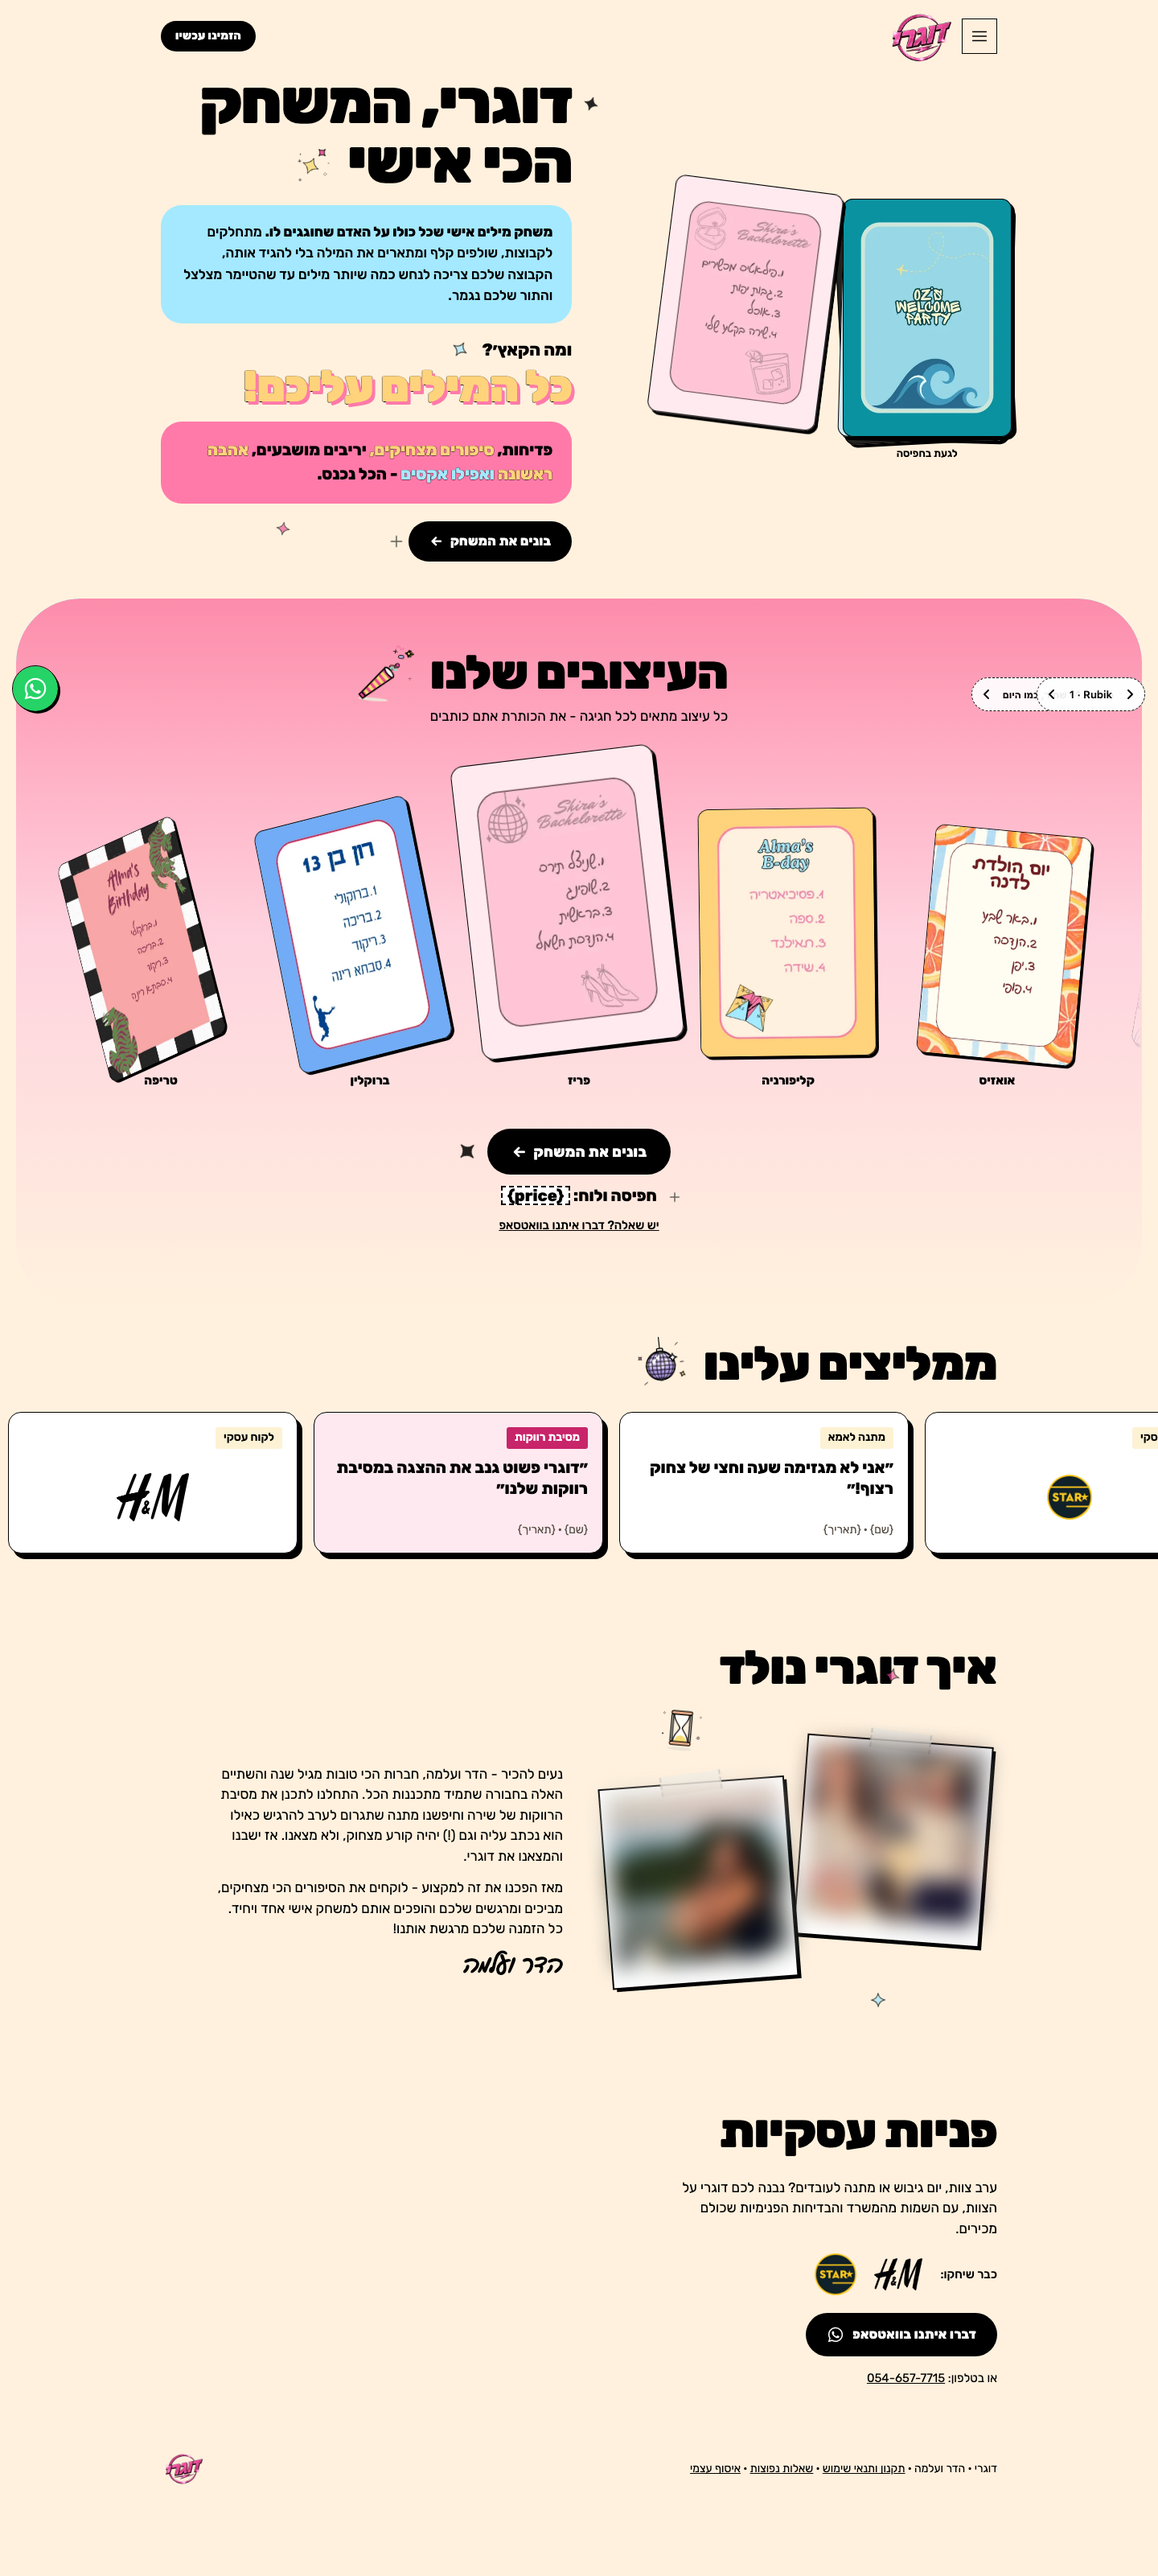
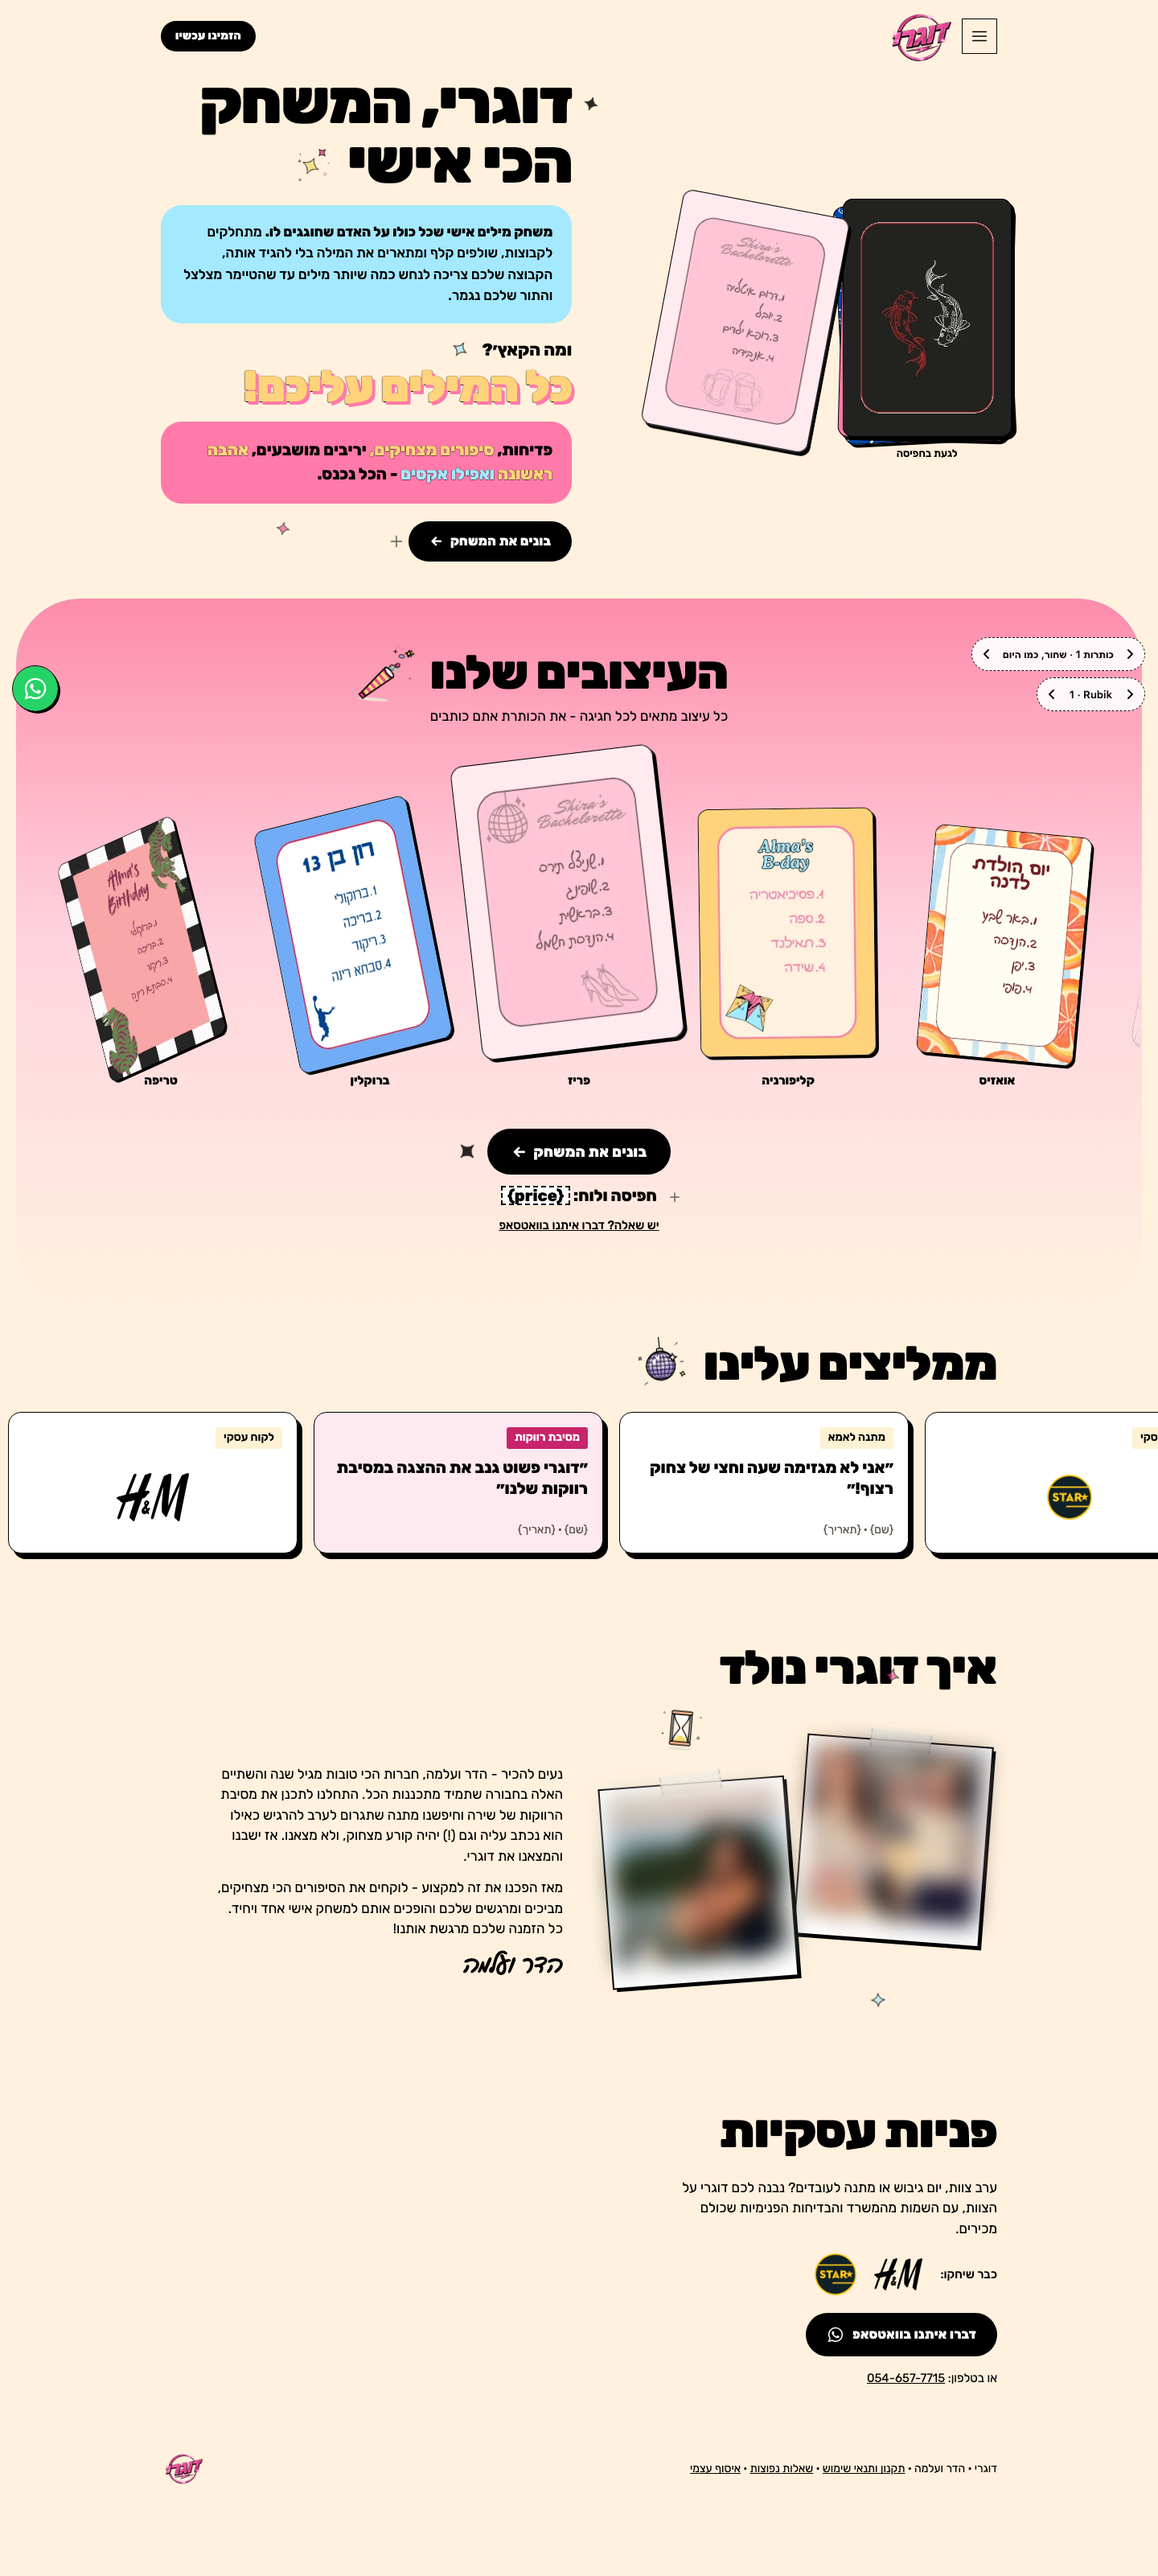
fix(redesign): r13 title switch sits above the font chooser on a phone
.fab came later with the same specificity and reset the switch's bottom, so the
chooser covered its first button.

Changed region(s): [[0.5625, 0.0625, 0.875, 0.1874], [0.8438, 0.2498, 1.0, 0.2811]]

diff --git a/redesign/directions/r13-designs.html b/redesign/directions/r13-designs.html
@@ -52,7 +52,7 @@
   html.t-10 .tt { color: #2b1a33; }
 
   /* the title switch (while testing), above the font chooser */
-  .tsw { inset-inline-start: max(16px, env(safe-area-inset-right)); bottom: calc(max(16px, env(safe-area-inset-bottom) + 10px) + var(--pal-h, 0px) + 50px); display: flex; align-items: center; background: #fff; border: 1.5px dashed var(--ink); border-radius: 999px; font: 600 13px/1 system-ui, sans-serif; }
+  .fab.tsw { inset-inline-start: max(16px, env(safe-area-inset-right)); bottom: calc(max(16px, env(safe-area-inset-bottom) + 10px) + var(--pal-h, 0px) + 50px); display: flex; align-items: center; background: #fff; border: 1.5px dashed var(--ink); border-radius: 999px; font: 600 13px/1 system-ui, sans-serif; }
   .tsw { opacity: .92; }
   .tsw > button { border: 0; background: none; color: var(--ink); font: inherit; min-height: 40px; padding: 0 10px; cursor: pointer; }
   .tsw > button svg { width: 16px; height: 16px; fill: none; stroke: currentColor; stroke-width: 2; stroke-linecap: round; stroke-linejoin: round; display: block; }

diff --git a/redesign/directions/r13.html b/redesign/directions/r13.html
@@ -52,7 +52,7 @@
   html.t-10 .tt { color: #2b1a33; }
 
   /* the title switch (while testing), above the font chooser */
-  .tsw { inset-inline-start: max(16px, env(safe-area-inset-right)); bottom: calc(max(16px, env(safe-area-inset-bottom) + 10px) + var(--pal-h, 0px) + 50px); display: flex; align-items: center; background: #fff; border: 1.5px dashed var(--ink); border-radius: 999px; font: 600 13px/1 system-ui, sans-serif; }
+  .fab.tsw { inset-inline-start: max(16px, env(safe-area-inset-right)); bottom: calc(max(16px, env(safe-area-inset-bottom) + 10px) + var(--pal-h, 0px) + 50px); display: flex; align-items: center; background: #fff; border: 1.5px dashed var(--ink); border-radius: 999px; font: 600 13px/1 system-ui, sans-serif; }
   .tsw { opacity: .92; }
   .tsw > button { border: 0; background: none; color: var(--ink); font: inherit; min-height: 40px; padding: 0 10px; cursor: pointer; }
   .tsw > button svg { width: 16px; height: 16px; fill: none; stroke: currentColor; stroke-width: 2; stroke-linecap: round; stroke-linejoin: round; display: block; }

diff --git a/redesign/directions/README-r13.md b/redesign/directions/README-r13.md
@@ -125,6 +125,8 @@ They use only the palette: #ffd37b, #a4e9ff, #ff7aa9, the logo pink #ea4795, ink
 9. A small 4-point star in the title's colour, with an ink line, before each title; the title stays ink.
 10. A deep plum ink, #2b1a33, instead of black for every title (14.6:1).
 
+The switch sits one row above the font chooser. Fixed after 7395c04, where it had fallen onto the chooser's row on a phone: no floating control (title switch, font chooser, WhatsApp, the `#place` palette) overlaps another or leaves the screen at 360, 390, 430, 1100 and 1440 wide, with and without `#place`, in Chromium and WebKit, and each of their buttons can be tapped.
+
 `shots/r13-titles.png` shows all ten on a phone: the hero headline, the designs title on its panel and the reviews title.
 
 In 9 the star makes each title a little longer, so the reviews title comes close to the disco ball beside it (her placement is in % of the content column).
